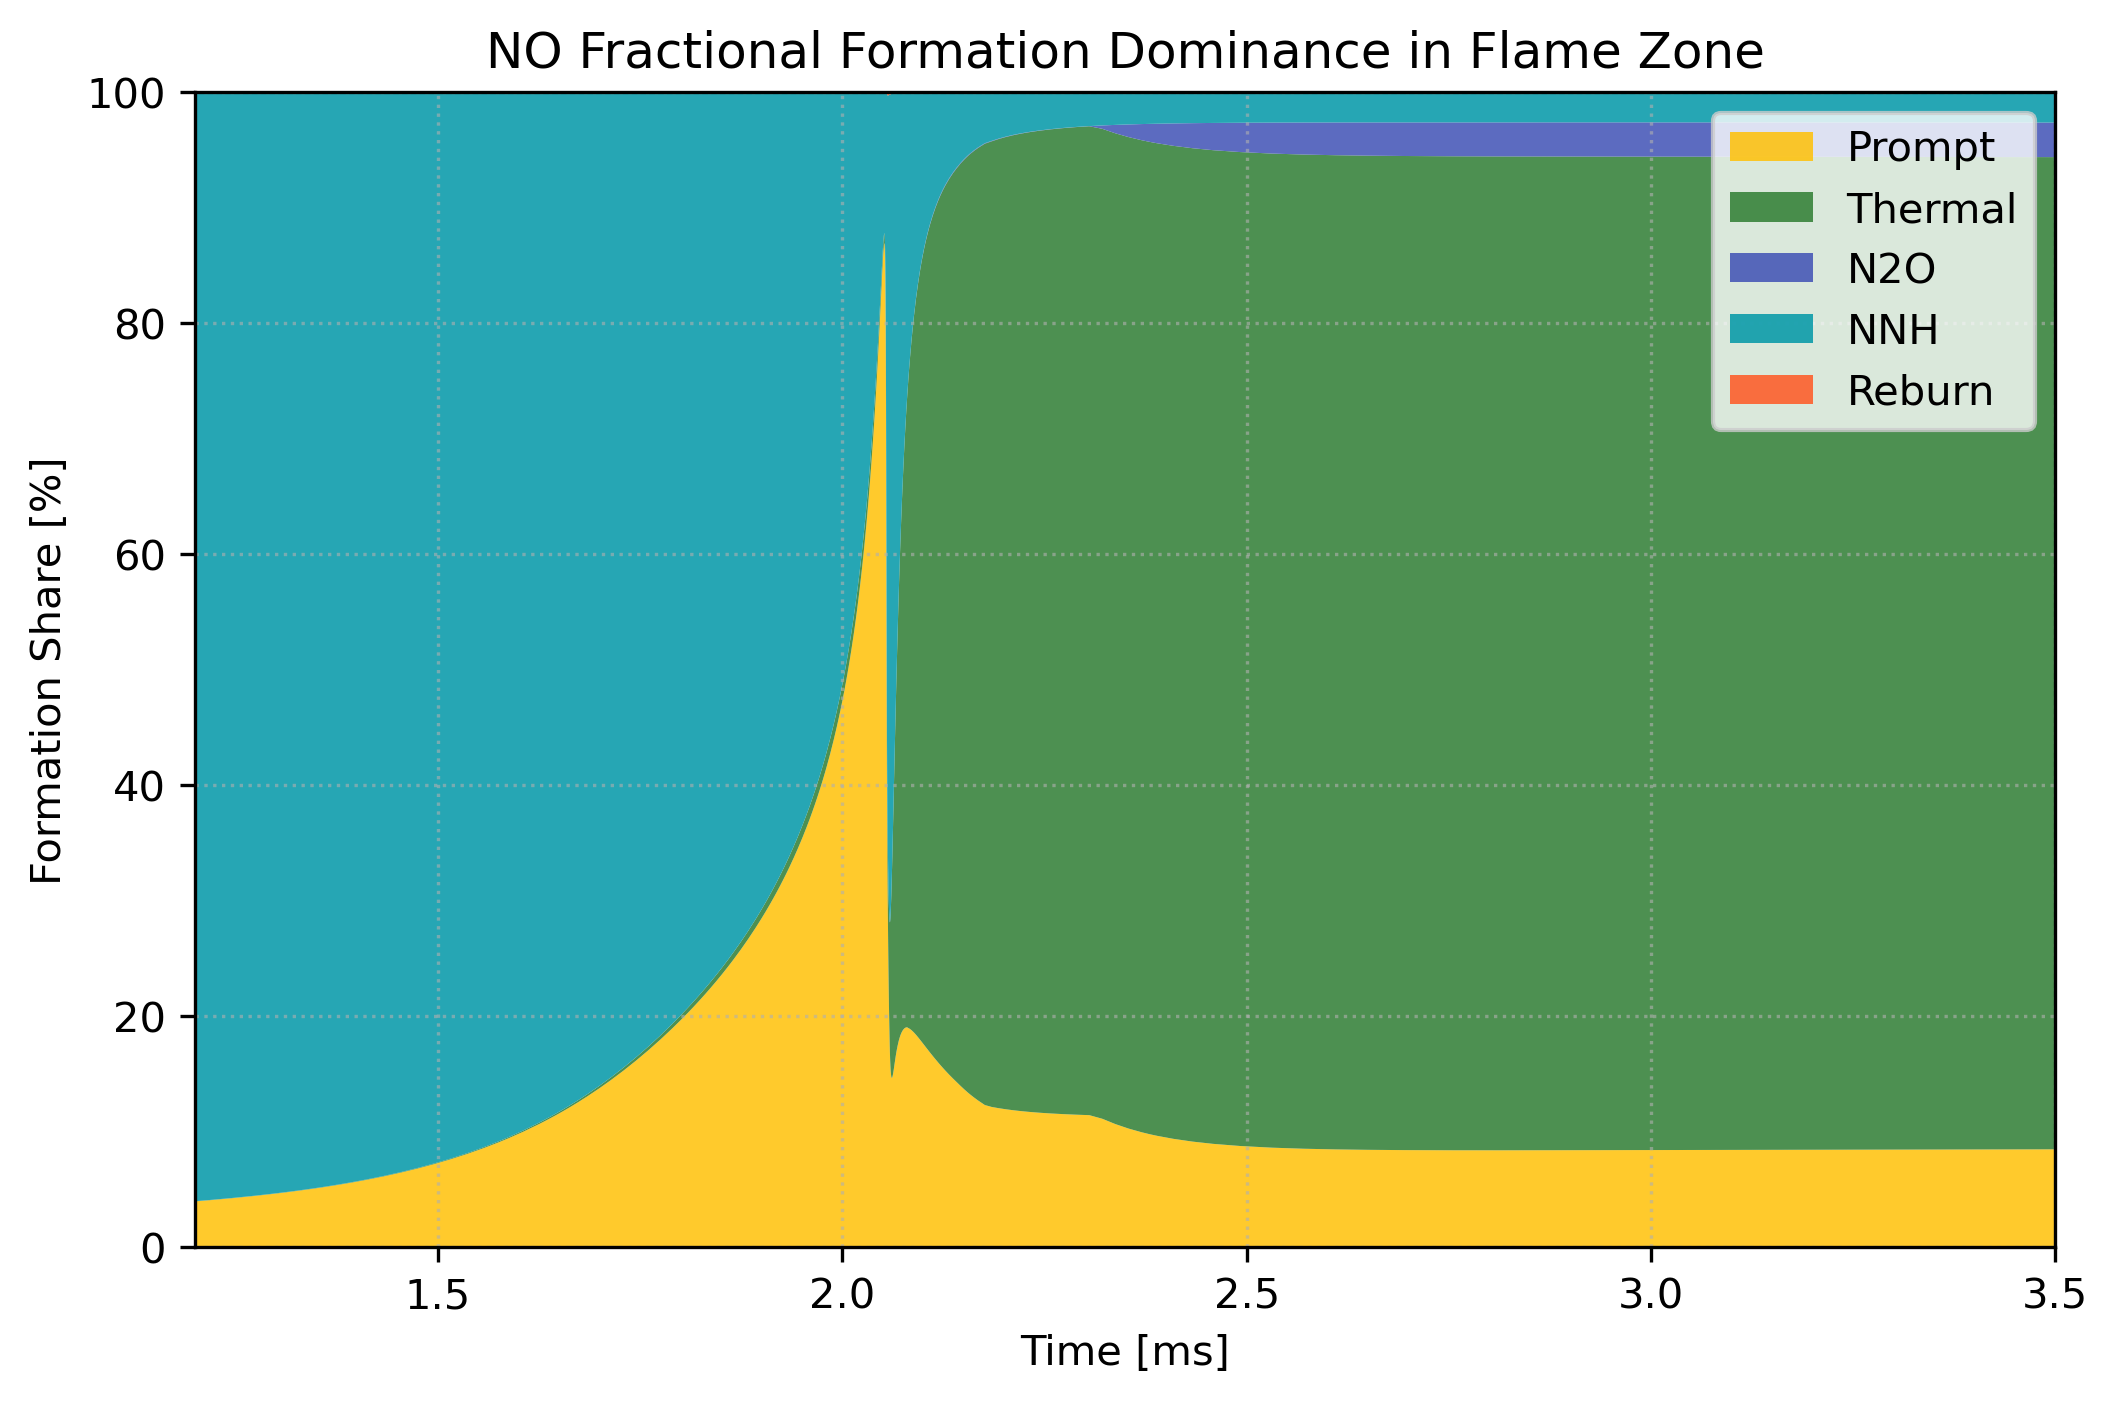
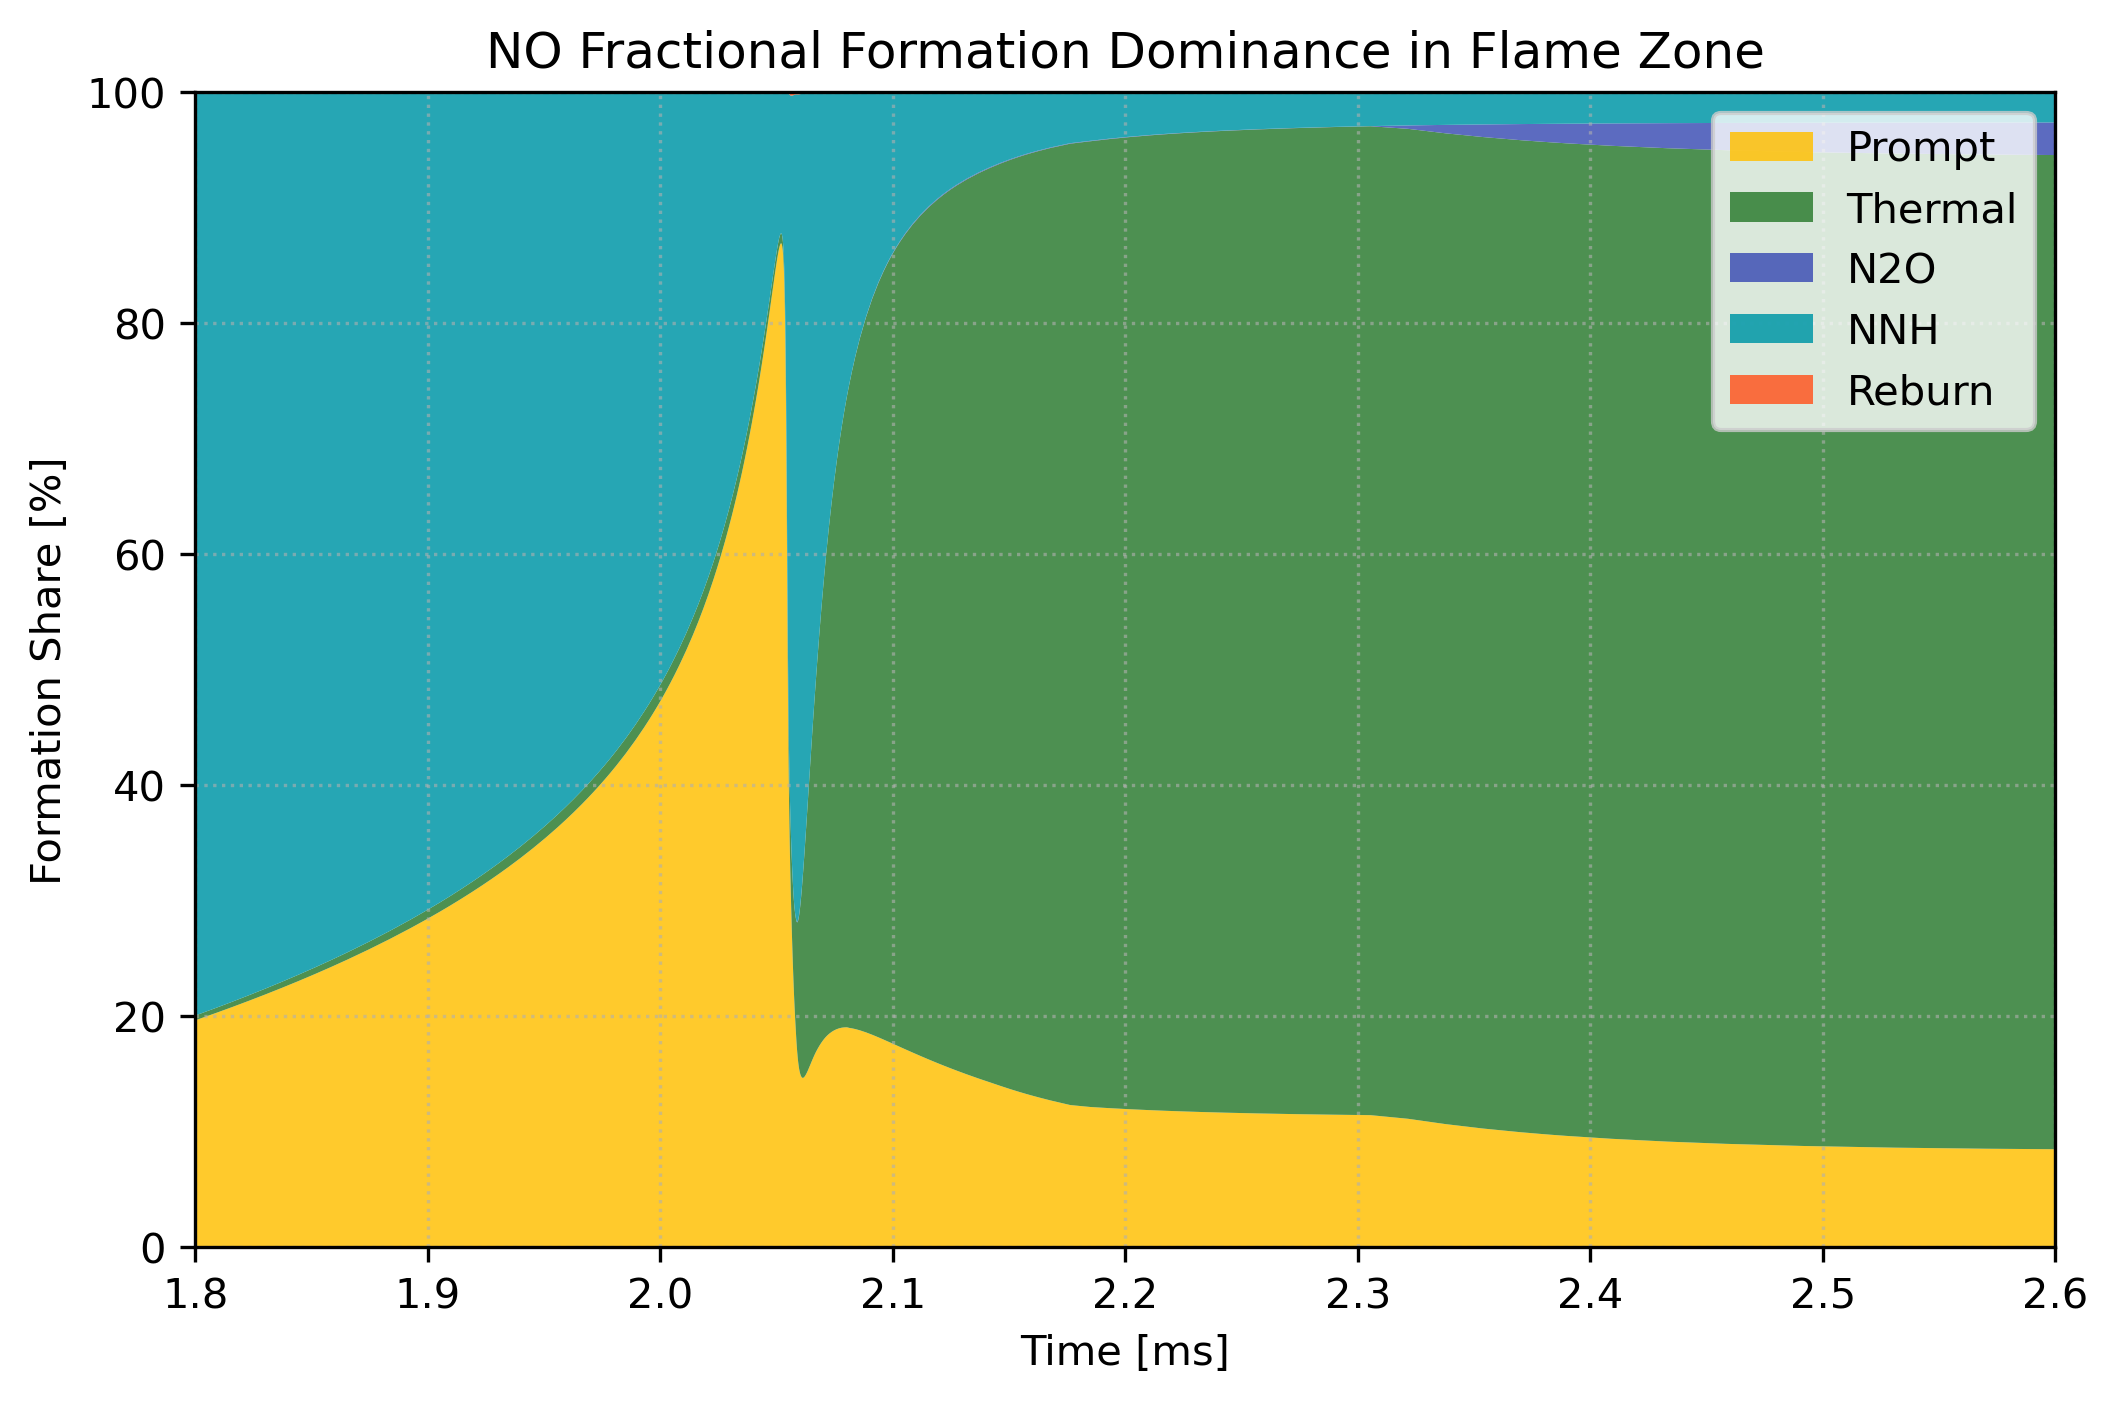
feat(viz): implement broken x-axis and zoomed y-axis for high-resolution pathway rates

diff --git a/examples/02_multistage_staged_combustion.py b/examples/02_multistage_staged_combustion.py
@@ -121,19 +121,63 @@ def main():
     print(df_no.to_string(index=False))
 
     print("\n7. Generating publication diagnostic plots across both combustion zones...")
-    t_boundary_ms = t_stage1_end * 1e3
+    t_ms = df["time"].values * 1e3
+    sp_idx = result.tracked_species.index("NO")
 
-    # 7a. Plot allocated pathway rates
-    fig_rates, ax_rates = result.plot_rates(target="NO", t_ms=True)
-    ax_rates.axvline(t_boundary_ms, color="gray", linestyle=":", lw=1.5, label=f"Air Quench ({t_boundary_ms:.1f} ms)")
-    ax_rates.set_title("Allocated NO Source Rates across RQL Stages (SMART-MS)")
-    ax_rates.legend(frameon=True)
-    fig_rates.savefig("examples/02_multistage_rates_no.png", dpi=300, bbox_inches="tight")
-    print("   Saved: examples/02_multistage_rates_no.png")
+    # Broken x-axis layout: Stage 1 flame [0.85, 1.45] ms | Stage 2 lean burnout [2.00, 2.50] ms
+    # y-axis zoomed to (-0.02, 0.40) kmol/(m³·s) so individual pathway curves (Prompt, Thermal, NNH) are crisp and detailed
+    fig_broken, (ax1, ax2) = plt.subplots(1, 2, figsize=(11, 5), sharey=True, gridspec_kw={"wspace": 0.08})
 
-    # 7b. Plot fractional formation dominance
+    for k_idx, m_name in enumerate(result.sub_mechs):
+        u = result.U[sp_idx, k_idx, :]
+        if np.max(np.abs(u)) > 1e-12:
+            c = result.palette.get(m_name, None)
+            ax1.plot(t_ms, u, label=m_name, color=c, lw=2.0)
+            ax2.plot(t_ms, u, label=m_name, color=c, lw=2.0)
+
+    # Net NO Rate
+    u_net = np.sum(result.U[sp_idx, :, :], axis=0)
+    ax1.plot(t_ms, u_net, label="Net NO Rate", color="black", linestyle="--", lw=1.5)
+    ax2.plot(t_ms, u_net, label="Net NO Rate", color="black", linestyle="--", lw=1.5)
+
+    # Broken x-limits and y-limits
+    ax1.set_xlim(0.85, 1.45)   # Stage 1 rich flame zone
+    ax2.set_xlim(2.00, 2.50)   # Stage 2 lean burnout zone
+    ax1.set_ylim(-0.02, 0.40)  # Zoomed y-axis: clips extreme net peak to reveal pathway details
+
+    # Quench interface indicator
+    ax2.axvline(t_stage1_end * 1e3, color="gray", linestyle=":", lw=1.5, label="Air Quench")
+
+    # Spine styling for broken axis
+    ax1.spines["right"].set_visible(False)
+    ax2.spines["left"].set_visible(False)
+    ax2.tick_params(left=False, labelleft=False)
+
+    d = 0.015
+    kwargs = dict(transform=ax1.transAxes, color="k", clip_on=False)
+    ax1.plot((1 - d, 1 + d), (-d, +d), **kwargs)
+    ax1.plot((1 - d, 1 + d), (1 - d, 1 + d), **kwargs)
+
+    kwargs.update(transform=ax2.transAxes)
+    ax2.plot((-d, +d), (-d, +d), **kwargs)
+    ax2.plot((-d, +d), (1 - d, 1 + d), **kwargs)
+
+    ax1.set_xlabel("Stage 1 (Rich Zone) Time [ms]")
+    ax2.set_xlabel("Stage 2 (Lean Zone) Time [ms]")
+    ax1.set_ylabel("Allocated NO Rate [kmol/(m$^3\\cdot$s)]")
+    ax1.set_title("Stage 1: Rich Flame ($\phi = 1.35$)")
+    ax2.set_title("Stage 2: Lean Burnout ($\phi = 0.70$)")
+    ax1.grid(True, linestyle=":", alpha=0.6)
+    ax2.grid(True, linestyle=":", alpha=0.6)
+    ax2.legend(loc="upper right", frameon=True, fontsize=8)
+
+    fig_broken.suptitle("Allocated NO Source Rates across RQL Stages (Broken X-Axis)", fontsize=12, y=0.98)
+    fig_broken.savefig("examples/02_multistage_rates_no.png", dpi=300, bbox_inches="tight")
+    print("   Saved: examples/02_multistage_rates_no.png (Broken X-Axis & Zoomed Y-Axis)")
+
+    # 7b. Fractional formation dominance
     fig_dom, ax_dom = result.plot_dominance(target="NO", t_ms=True)
-    ax_dom.axvline(t_boundary_ms, color="gray", linestyle=":", lw=1.5, label=f"Air Quench ({t_boundary_ms:.1f} ms)")
+    ax_dom.axvline(t_stage1_end * 1e3, color="gray", linestyle=":", lw=1.5, label=f"Air Quench ({t_stage1_end*1e3:.1f} ms)")
     ax_dom.set_title("NO Fractional Formation Dominance across RQL Stages")
     ax_dom.legend(frameon=True)
     fig_dom.savefig("examples/02_multistage_dominance_no.png", dpi=300, bbox_inches="tight")
@@ -141,7 +185,7 @@ def main():
 
     # 7c. Plot cumulative pools Q
     fig_pools, ax_pools = result.plot_pools(target="NO", t_ms=True)
-    ax_pools.axvline(t_boundary_ms, color="gray", linestyle=":", lw=1.5, label=f"Air Quench ({t_boundary_ms:.1f} ms)")
+    ax_pools.axvline(t_stage1_end * 1e3, color="gray", linestyle=":", lw=1.5, label=f"Air Quench ({t_stage1_end*1e3:.1f} ms)")
     ax_pools.set_title("Cumulative NO Accounting Pools across RQL Stages (SMART-MS)")
     ax_pools.legend(frameon=True)
     fig_pools.savefig("examples/02_multistage_pools_no.png", dpi=300, bbox_inches="tight")

diff --git a/examples/01_single_stage_premixed.py b/examples/01_single_stage_premixed.py
@@ -63,12 +63,15 @@ def main():
     print("\n4. Generating publication diagnostic plots zoomed in on flame zone...")
     
     # Flame zone window: Prompt NO spikes at ~2.05 ms and Thermal NO rises at ~2.08 ms
-    # Zooming in to [1.2, 3.5] ms clearly exposes the flame front radical dynamics and prompt peak!
-    flame_xlim = (1.2, 3.5)
+    # Zooming in tightly to [1.8, 2.6] ms clearly exposes the flame front radical dynamics and prompt peak!
+    flame_xlim = (1.8, 2.6)
+    # Pathway rates peak around 0.02 - 0.03 kmol/(m³·s). Clipping the extreme net rate peak gives extreme resolution on the pathways!
+    flame_ylim = (-0.001, 0.035)
 
     # 4a. Time-resolved allocated rates (U matrix)
     fig_rates, ax_rates = result.plot_rates(target="NO", t_ms=True)
     ax_rates.set_xlim(flame_xlim)
+    ax_rates.set_ylim(flame_ylim)
     ax_rates.set_title("Allocated NO Source Rate in Flame Zone (U Matrix)")
     fig_rates.savefig("examples/01_rates_no.png", dpi=300, bbox_inches="tight")
     print("   Saved: examples/01_rates_no.png")

diff --git a/pysmart/results/diagnostics.py b/pysmart/results/diagnostics.py
@@ -69,7 +69,10 @@ def plot_gross_flux_budget(
     ax_bot.set_xlabel("Time [ms]" if t_ms else "Time [s]")
     ax_bot.grid(True, linestyle=":", alpha=0.5)
 
-    fig.tight_layout()
+    try:
+        fig.tight_layout()
+    except (UserWarning, ValueError):
+        pass
     return fig, (ax_top, ax_bot)
 
 def plot_phase_portrait(

diff --git a/tests/test_visualizers.py b/tests/test_visualizers.py
@@ -14,6 +14,8 @@ import pytest
 import numpy as np
 import pandas as pd
 import cantera as ct
+import matplotlib
+matplotlib.use("Agg")
 import matplotlib.pyplot as plt
 import pysmart as smart
 
